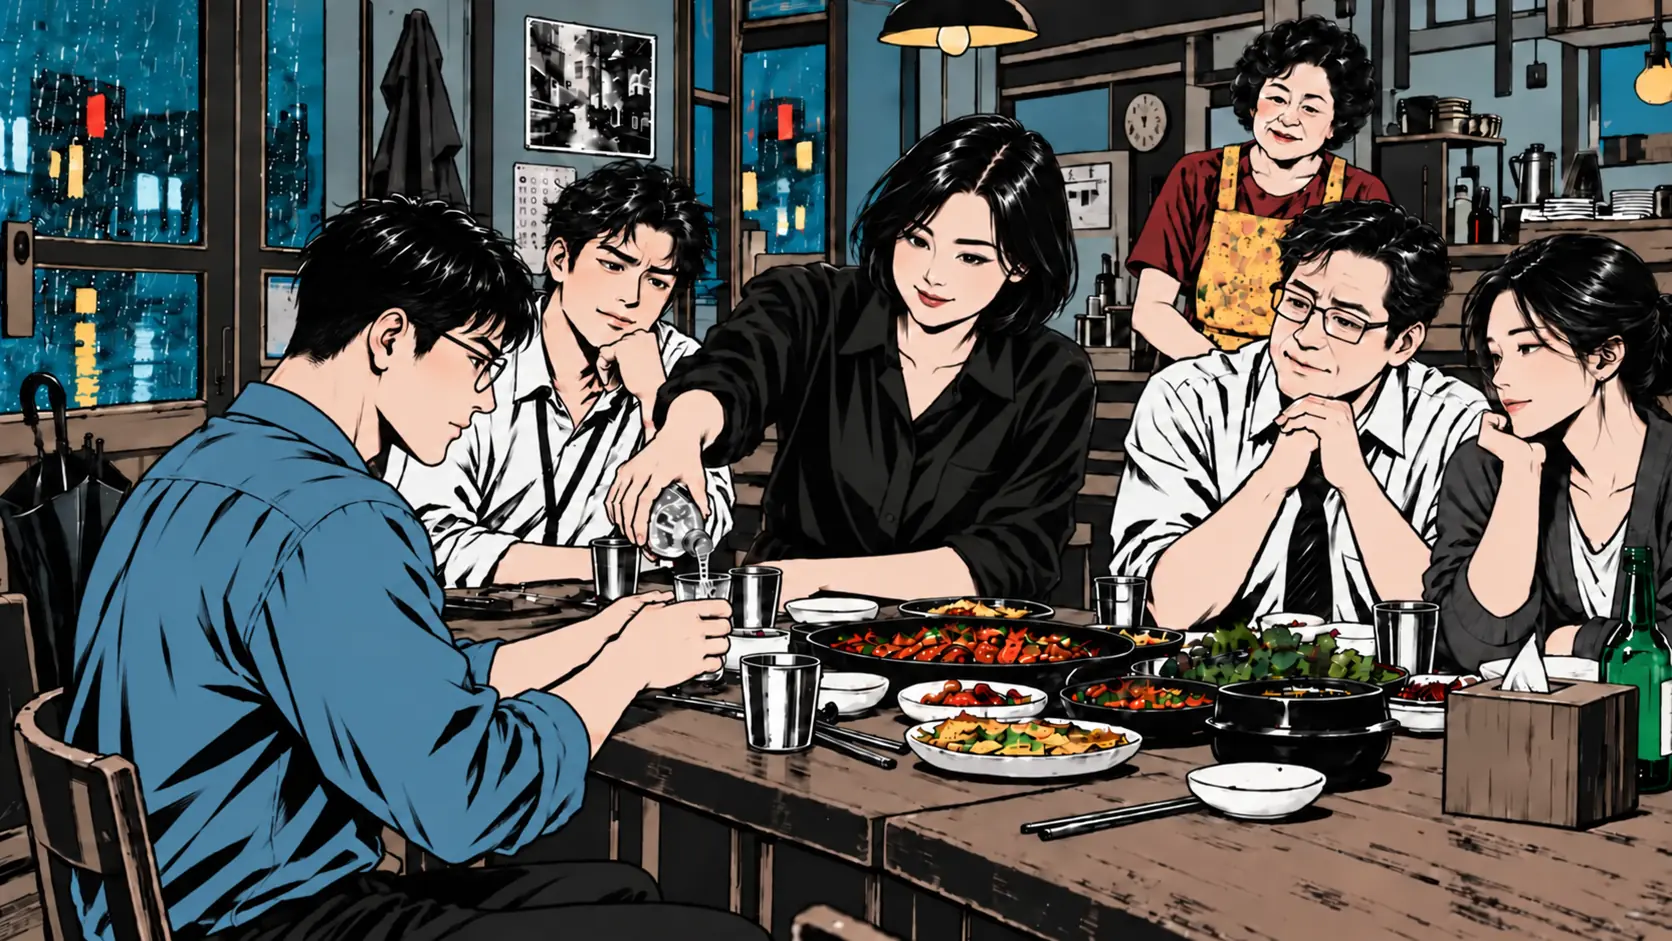
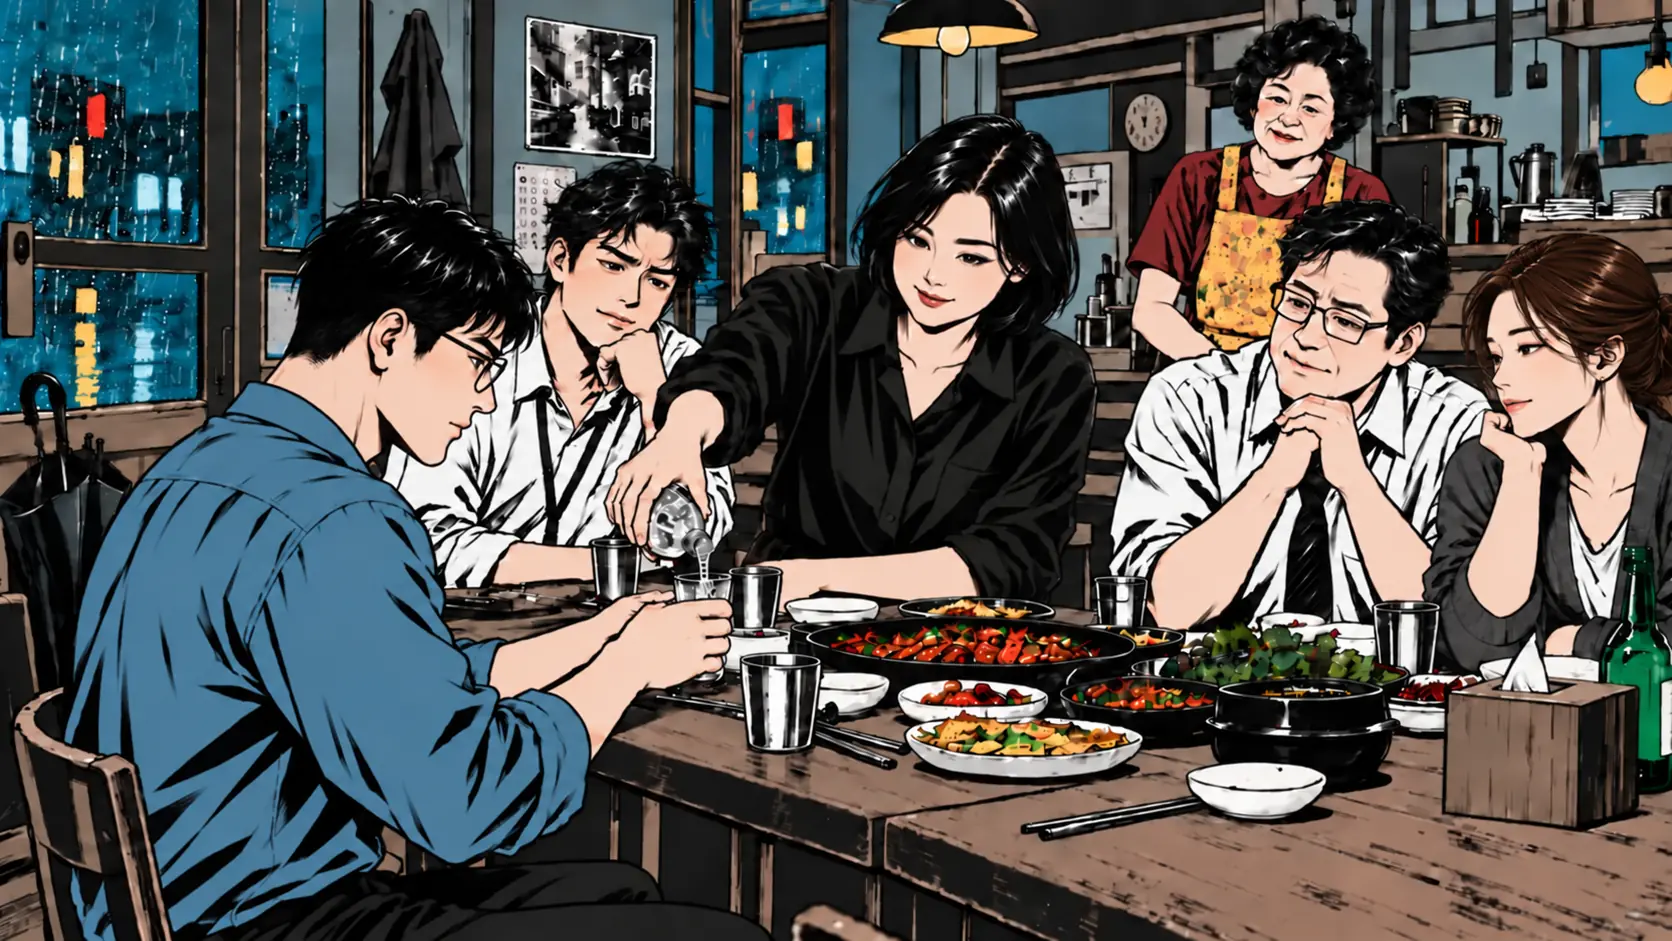
유리를 갈색 머리와 홑꺼풀로 바꿔 민아와 구분, 1화 도경 손과 7화 은서 팔 교정
- 4화를 기준으로 5·6화의 유리 외모를 통일
- 삽화 프롬프트·인물 참조·검수 기록 갱신

diff --git a/assets/illustrations/review.md b/assets/illustrations/review.md
@@ -113,3 +113,17 @@
 | `ep5.webp` | 카운터 앞에 선 도경이 오류가 뜬 단말기 위에서 손을 멈춘 장면을 앞쪽에 두었다. 카운터 안의 영선은 이전 삽화와 같은 외모(짧은 파마, 붉은 꽃무늬 블라우스, 앞치마)로 유지했고, 지갑을 든 손님 셋과 뒤쪽 테이블의 민아·찬석·유리를 배치했다. 단말기 화면은 붉은 오류 표시만 있고 글자는 없다. |
 
 1672×941 WebP로 저장했고 본문의 `illustration_alt`를 새 장면에 맞췄다.
+
+## 유리 외모 구분과 손·팔 교정
+
+2026-09-13. 유리와 민아가 비슷해 보인다는 지적에 따라 유리를 짙은 갈색 머리와 쌍꺼풀 없는 눈으로 바꿨다. 4화를 먼저 고쳐 기준으로 삼고 5·6화의 유리를 그 결과에 맞췄다. 같은 날 1화와 7화의 인체 오류도 고쳤다. 프롬프트는 `prompts.json`의 `2026-09-13-yuri-distinct`, `2026-09-13-anatomy-fix` 항목에 있다.
+
+| 파일 | 조정 내용 |
+|---|---|
+| `ep4.webp` | 유리의 머리를 검정에서 짙은 갈색으로, 눈을 홑꺼풀로 변경. 묶은 머리와 앞머리, 자세, 사무실은 유지. |
+| `ep5.webp` | 뒤쪽 테이블 오른쪽 끝의 유리를 4화 기준으로 변경. 민아·찬석·도경·영선은 그대로. |
+| `ep6.webp` | 오른쪽 끝의 유리를 4화 기준으로 변경. 나머지 인물은 그대로. |
+| `ep1.webp` | 도경이 테이블에 올린 오른손이 손가락 여섯 개처럼 보이던 것을 다섯 손가락의 자연스러운 손으로 교정. 얼굴과 나머지는 유지. |
+| `ep7.webp` | 왼쪽 은서의 두 팔이 하나로 이어져 보이던 것을 분리된 두 팔과 두 손으로 교정. 경민·임경호와 배경은 유지. |
+
+모두 1672×941 WebP로 저장했다. `character_references`의 한유리 항목을 새 외모로 갱신했다.
